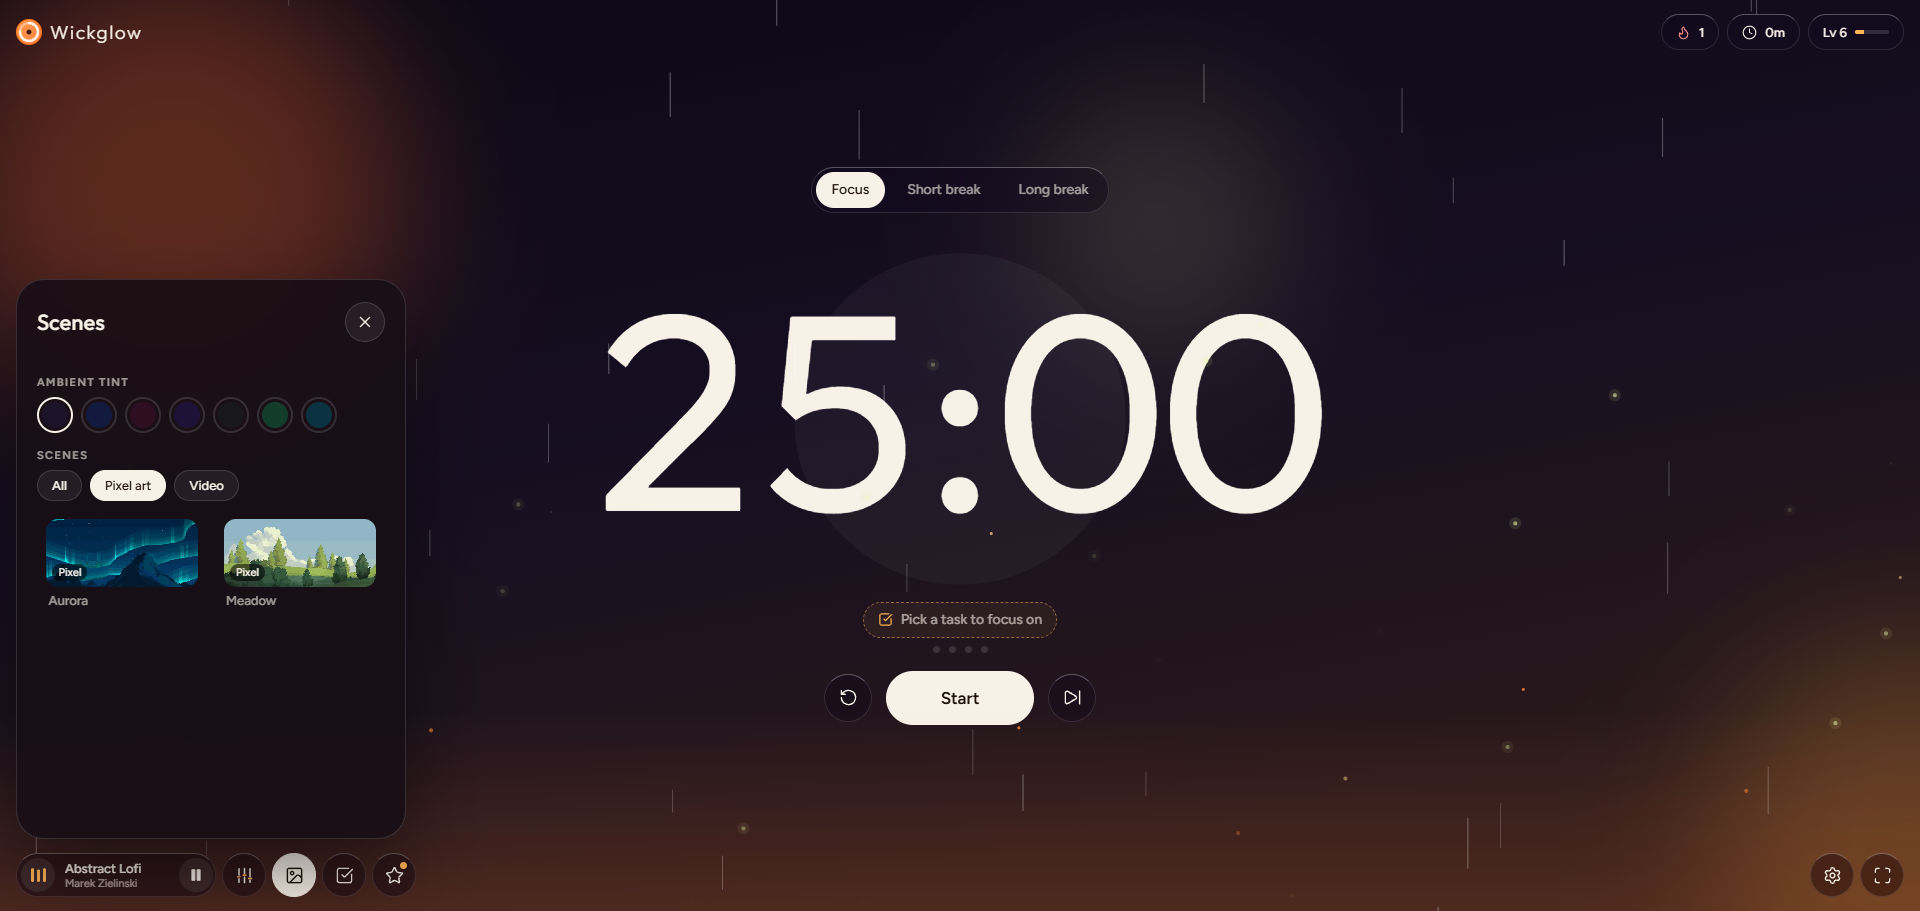
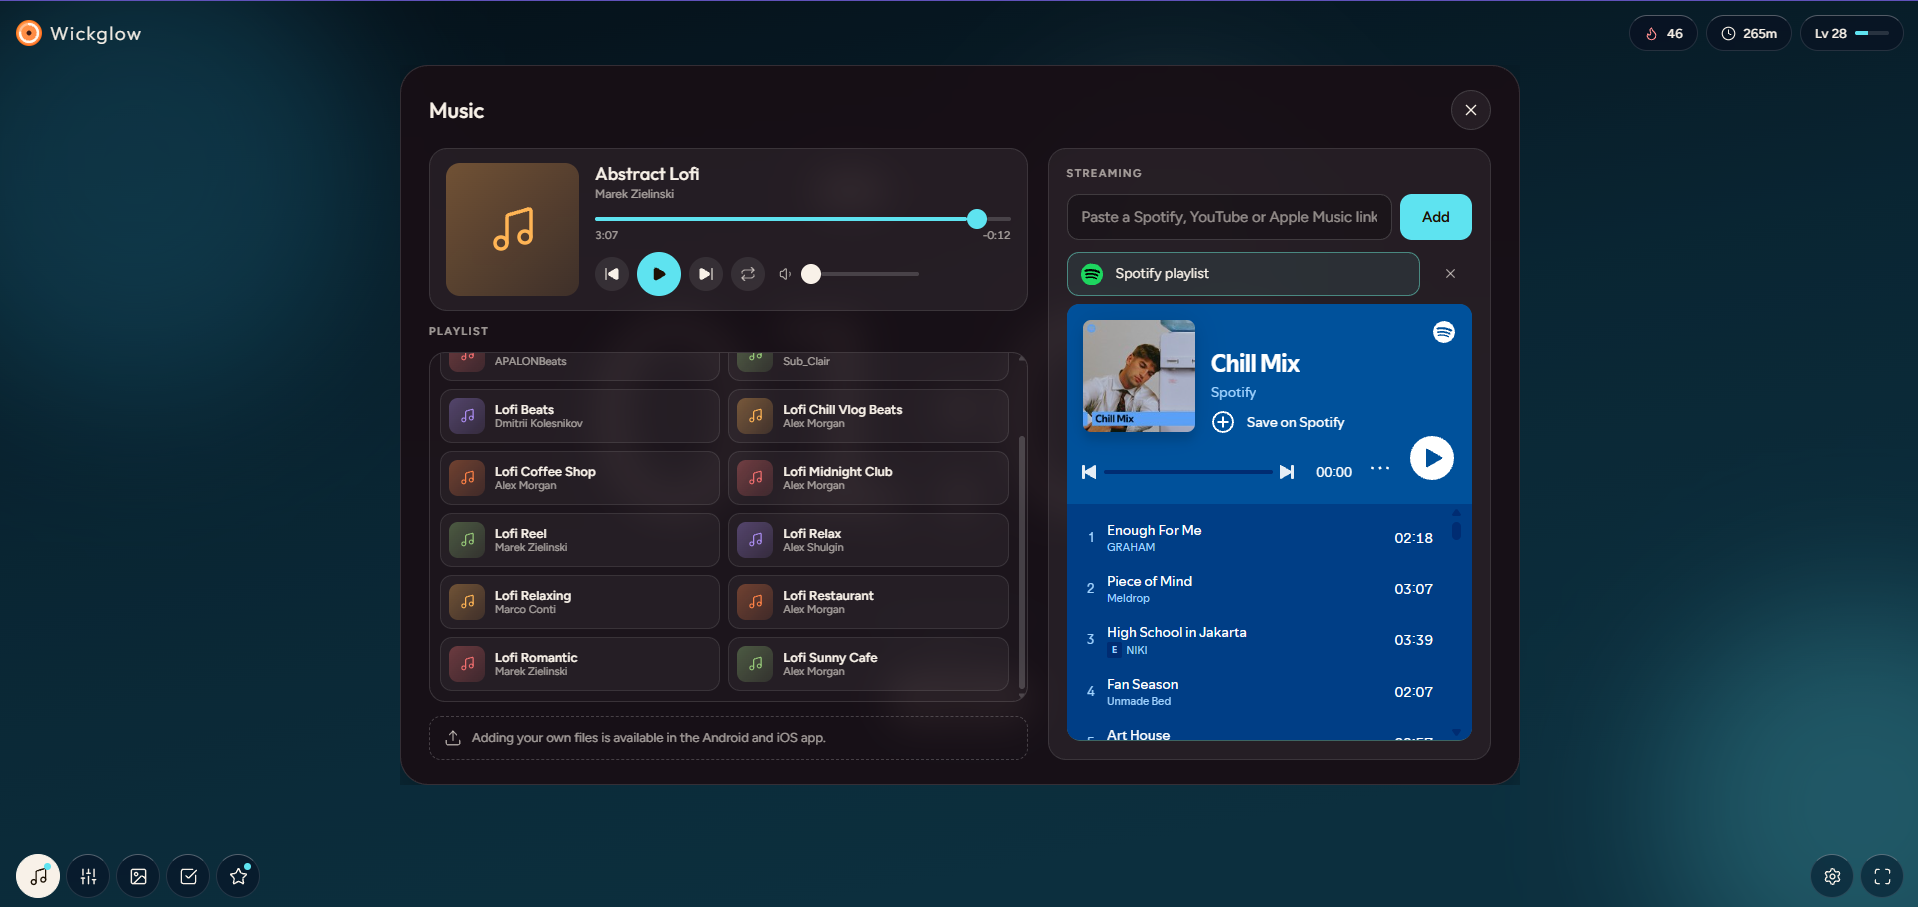
feat(landing): new Music slide, meadow shot first in the gallery
Replace the Amber slide with a Music panel screenshot and move the
pixel-art meadow to the first slide. Record both in progress.md.

diff --git a/components/landing/content.ts b/components/landing/content.ts
@@ -37,14 +37,6 @@ export const GALLERY_ADDRESS = 'wickglow.vercel.app';
 
 export const GALLERY: readonly GallerySlide[] = [
   {
-    id: 'moonlit',
-    label: 'Moonlit',
-    caption: 'A big, quiet timer over a moonlit night with falling rain.',
-    source: require('@/assets/landing/desktop-3.webp') as ImageSourcePropType,
-    alt: 'Wickglow on desktop: a 25:00 focus timer over a dark blue Moonlit scene with falling rain',
-    ratio: 1600 / 759,
-  },
-  {
     id: 'meadow',
     label: 'Pixel art',
     caption: 'Pick a scene to study in, like a rainy pixel-art meadow.',
@@ -53,12 +45,20 @@ export const GALLERY: readonly GallerySlide[] = [
     ratio: 1600 / 759,
   },
   {
-    id: 'amber',
-    label: 'Amber',
-    caption: 'The warm, dark Amber scene, with the Scenes picker open.',
-    source: require('@/assets/landing/desktop-2.webp') as ImageSourcePropType,
-    alt: 'Wickglow on desktop in the dark Amber scene, with the Scenes picker open',
+    id: 'moonlit',
+    label: 'Moonlit',
+    caption: 'A big, quiet timer over a moonlit night with falling rain.',
+    source: require('@/assets/landing/desktop-3.webp') as ImageSourcePropType,
+    alt: 'Wickglow on desktop: a 25:00 focus timer over a dark blue Moonlit scene with falling rain',
     ratio: 1600 / 759,
+  },
+  {
+    id: 'music',
+    label: 'Music',
+    caption: 'Play the built-in lofi playlist, or paste a Spotify, YouTube or Apple Music link.',
+    source: require('@/assets/landing/desktop-2.webp') as ImageSourcePropType,
+    alt: 'Wickglow on desktop with the Music panel open: the lofi playlist beside a pasted Spotify playlist',
+    ratio: 1600 / 756,
   },
 ];
 

diff --git a/docs/agent/progress.md b/docs/agent/progress.md
@@ -18,14 +18,22 @@ A web landing page that explains Wickglow and offers the Android APK for downloa
 
 - Landing page (current). See roadmap #12.
 - Google Play release. See Google Play deployment.
+- EAS preview and production environments have no Firebase vars yet (only development does), so a `preview` APK build cannot reach Firebase until the seven vars are ticked for both on expo.dev. See `docs/feature/firebase.md`, Owner tasks.
+- Review fixes 2026-11-15: no session can start while a sign-out runs, and sign-out stops when storage could not be read at launch. A state taken from another tab keeps that tab's task edit times. Gallery arrows keep counting past either end. Privacy policy: removed the wrong Android streaming sentence. Pixabay licence note now covers lightly changed copies.
+- Landing gallery 2026-11-15: the pixel-art meadow (`desktop.webp`) is now the first slide. The third slide is a new Music panel shot (`desktop-2.webp`, from the new `screenshots/desktop-2.png`) and replaces the Amber one.
 - C1 fixed 2026-11-15: every video left is cleared, and Night Hills was removed. See `BACKGROUND_LICENSES.md`. The landing page now waits only on the APK link.
+- App to landing page link 2026-11-15 (owner): web only, a quiet "About Wickglow" link as the last line of Timer settings (phone Timer tab, tablet side column, desktop settings card). It opens `/?home` (`LANDING_HOME_PATH`) in a new tab, so the returning-visitor script does not send it back and a running session keeps going.
 
 ## Open questions
 
 Landing page (roadmap #12). Built 2026-11-15. Moved the same day (owner): the landing page is `/` on the web and the web app is `/app`; returning visitors skip to `/app`; `/download` redirects to `/`. Android still opens the app at `/`. See roadmap #12. Waiting on the owner for item 1; item 2 is done:
 
 1. The Google Drive share link for the APK (set to "Anyone with the link"). Replace `APK_URL` in `components/landing/content.ts`; it is a placeholder (`https://drive.google.com/`) until then. Drive shows a "can't scan for viruses" page before files over about 100MB download, so the button may land there first.
-2. Screenshots are in (2026-11-15): WebP copies in `assets/landing/`, made from `assets/images/screenshots/` (about 80KB instead of 1.8MB), shown by `GALLERY` (three desktop shots in a Mac-style window) and `PHONE_SHOT` (beside the download) in `content.ts`. Replace a file in `assets/landing/` to change one. Gallery redesigned 2026-11-15: wider than the text column (1200), browser title bar with an address pill (`GALLERY_ADDRESS`), warm glow under the window, scene tabs plus a per-slide `caption` instead of dots.
+2. Screenshots are in (2026-11-15): WebP copies in `assets/landing/`, made from `assets/images/screenshots/` (about 80KB instead of 1.8MB), shown by `GALLERY` (three desktop shots in a Mac-style window) and `PHONE_SHOT` (beside the download) in `content.ts`. Replace a file in `assets/landing/` to change one. Gallery redesigned 2026-11-15: on the same 1040 column as the other sections (first built at 1200; narrowed the same day so its edges line up), browser title bar with an address pill (`GALLERY_ADDRESS`), warm glow under the window, scene tabs plus a per-slide `caption` instead of dots.
+
+Sign-out with a session running: decided 2026-11-15 (owner), built. Signing out resets a running or paused session to idle and cancels its alarm (the Reset button's `run.reset`) before the device is cleared, so a session begun under one account can never finish into the next account's progress.
+
+Review fixes 2026-11-15: landing previews built from app buttons (tasks, calendar) are `inert`; a gallery tab press clears a pending arrow target; `adopt` (another tab's save) becomes the save queue's saved state and drops a waiting retry, a late failure of an older write, and a waiting local edit (the store shows the adopted state, so what is written matches what is shown); a `storage` event is only taken while storage still holds its value, so an old event cannot undo a newer local commit (`domain/other-tab.ts`); sign-out waits for the cleared state to be written and does not sign out (toast) if it fails; a change of account drops a waiting sign-out, and a sign-out overtaken while the device clears does not sign out (sync restarts if the same account is still signed in and no other sign-out runs); on a phone or tablet a task's controls wrap under the title rather than squeezing it below 120; the user guide and privacy policy say subtasks sync (their shown/hidden state stays local) and name streaming and scene downloads as the network exceptions without an account; a session record's day must be a real, unpadded `calendarKey` day.
 
 ## Google Play deployment
 
@@ -59,7 +67,7 @@ Everything else was checked by the owner on 2026-11-15: two-device sync, ambient
 
 ## Tooling notes
 
-- Clean-up (2026-11-15): code comments reviewed (outdated ones fixed, tutorial-style and "(owner, date)" notes removed); leftovers removed (`task-panel.tsx`, `streamCardHeight`); all backward compatibility removed (Lumifi save key and alarm id, old notification channels, the no-log and `videoBg: true` save conversions). Rules for both are in `conventions.md`. The synced Firestore format keeps its `d_` day records and optional `day`/`epoch` handling; changing that is a schema decision for the owner.
+- Clean-up (2026-11-15): code comments reviewed (outdated ones fixed, tutorial-style and "(owner, date)" notes removed); leftovers removed (`task-panel.tsx`, `streamCardHeight`); all backward compatibility removed (Lumifi save key and alarm id, old notification channels, the no-log and `videoBg: true` save conversions). Rules for both are in `conventions.md`. Firestore (owner, 2026-11-15): `d_` day-total records removed, and `day` is required on every session record, in the code, the rules and the rules tests (22 pass in the emulator). **Owner task: redeploy the rules** (`npm run deploy:rules`). Day totals and sessions without `day` already in the account are ignored from now on, so XP, streak and calendar lose that history.
 
 - Docs (2026-11-15): added `docs/user-guide.md` (for users) and `docs/developer-guide.md` (for contributors; links to the agent docs instead of copying them), linked from `README.md`. Keep both in step when a user-visible feature or the code layout changes.
 
